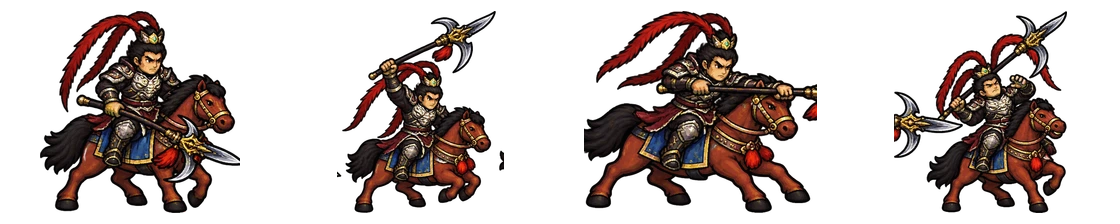
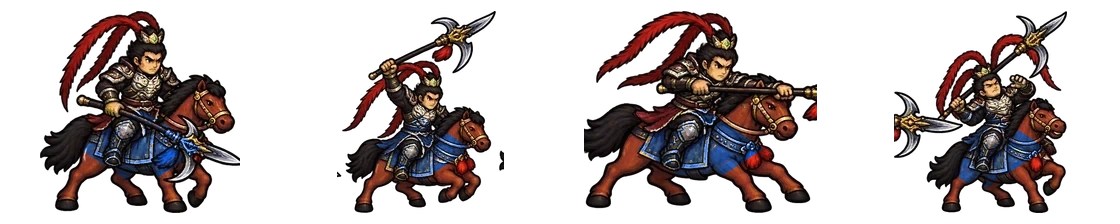
feat(battle): show officer evolution and faction colors

diff --git a/packages/web/src/officer-models.ts b/packages/web/src/officer-models.ts
@@ -1,4 +1,4 @@
-import type {Unit} from '../../core/src/index.ts';
+import {familyOf,tierOf,type Unit} from '../../core/src/index.ts';
 import {romanceOf} from './romance.ts';
 
 export interface OfficerFrameSet {sheet:string;row:number;rows:number;cell?:readonly [number,number]}
@@ -60,10 +60,11 @@ export function officerEntry(u:OfficerLike):OfficerEntry|undefined{
   const direct=byKey.get(u.id)??byKey.get(u.name)??byKey.get(plain(u.name));if(direct)return direct;
   const r=romanceOf(u);return r?byKey.get(r.name):undefined;
 }
-const classKey=(u:OfficerLike,e:OfficerEntry)=>{if(u.id==='wooden_zhuge'&&e.battle.cart)return 'cart';const cls=u.unitClass;if(cls&&e.battle[cls])return cls;return Object.keys(e.battle)[0]!;};
+const classKey=(u:OfficerLike,e:OfficerEntry)=>{if(u.id==='wooden_zhuge'&&e.battle.cart)return 'cart';const cls=u.unitClass;if(cls&&e.battle[cls])return cls;if(cls){const family=familyOf(cls);if(e.battle[family])return family;}return Object.keys(e.battle)[0]!;};
 export function officerBattleSheet(u:OfficerLike):OfficerBattleModel|undefined{
   const e=officerEntry(u);if(!e)return undefined;const b=e.battle[classKey(u,e)];if(!b)return undefined;
-  const set={sheet:b.sheet,row:0,rows:b.rows,cell:b.cell};const fallback=legacy.get(e.id);
+  const row=b.rows>1&&u.unitClass?Math.min(b.rows-1,tierOf(u.unitClass)-1):0;
+  const set={sheet:b.sheet,row,rows:b.rows,cell:b.cell};const fallback=legacy.get(e.id);
   return {action:set,walk:set,sideWalk:set,...(fallback?{fallback}:{})};
 }
 export const officerBattleModel=officerBattleSheet;

diff --git a/packages/web/test/officer-models.test.ts b/packages/web/test/officer-models.test.ts
@@ -20,6 +20,15 @@ describe('장수별 전투 SD와 대결 모델',()=>{
     }
   });
 
+  it('진화 병종은 원래 계통 시트에서 해당 단계 줄을 고른다',()=>{
+    const strategist=officerBattleSheet({id:'sima_yi',name:'사마의',unitClass:'mastermind'})!;
+    expect(strategist.action.sheet).toContain('battle-strategist');
+    expect(strategist.action.row).toBe(2);
+    const infantry=officerBattleSheet({id:'sima_lang',name:'사마랑',unitClass:'ironInfantry'})!;
+    expect(infantry.action.sheet).toContain('battle-infantry');
+    expect(infantry.action.row).toBe(3);
+  });
+
   it('id, 환영, wooden_zhuge, boss의 연의 이름 순서로 찾는다',()=>{
     expect(officerEntry({id:'chen_gong',name:'무명'})?.name).toBe('진궁');
     expect(officerEntry({id:'story_enemy',name:'진궁의 환영'})?.id).toBe('chen_gong');

diff --git a/packages/web/src/dye.ts b/packages/web/src/dye.ts
@@ -14,6 +14,7 @@ export function dyeOfSide(side:string):Dye{return side==='enemy'?'red':side==='a
 export function clothBand(sheet:string):[number,number]{
   if(sheet.startsWith('base'))return [185,258];
   if(sheet.startsWith('extra'))return [140,200];
+  if(sheet.startsWith('officers/'))return [200,235];
   return [338,16];
 }
 const inBand=(h:number,[a,b]:[number,number])=>a<=b?h>=a&&h<=b:h>=a||h<=b;
